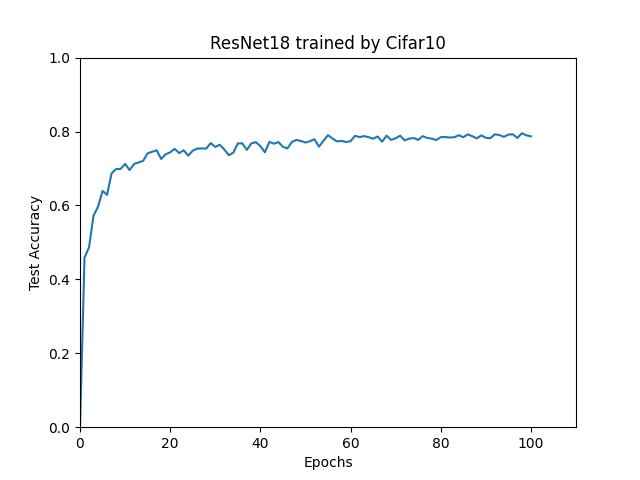
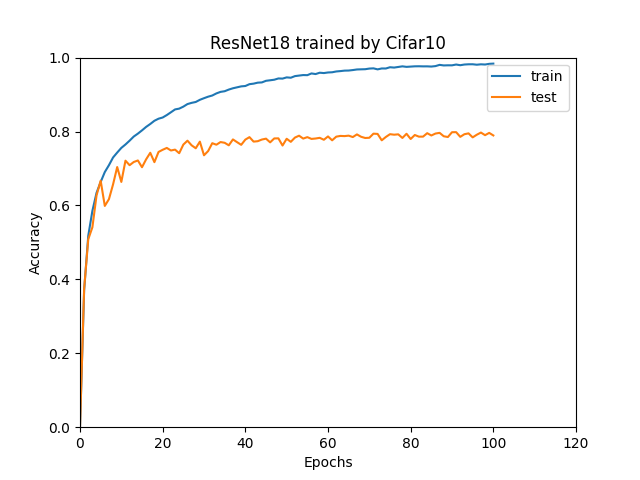
update

diff --git a/workspace/research/model/resnet18k.py b/workspace/research/model/resnet18k.py
@@ -1,0 +1,71 @@
+## ResNet18 for CIFAR
+## Based on: https://github.com/kuangliu/pytorch-cifar/blob/master/models/preact_resnet.py
+## Copied from https://gitlab.com/harvard-machine-learning/double-descent/-/blob/master/models/resnet18k.py
+
+import torch.nn as nn
+import torch.nn.functional as F
+
+class PreActBlock(nn.Module):
+    '''Pre-activation version of the BasicBlock.'''
+    expansion = 1
+
+    def __init__(self, in_planes, planes, stride=1, **kwargs):
+        super(PreActBlock, self).__init__()
+        self.bn1 = nn.BatchNorm2d(in_planes)
+        self.conv1 = nn.Conv2d(
+            in_planes, planes, kernel_size=3, stride=stride, padding=1, bias=False)
+        self.bn2 = nn.BatchNorm2d(planes)
+        self.conv2 = nn.Conv2d(planes, planes, kernel_size=3,
+                               stride=1, padding=1, bias=False)
+
+        if stride != 1 or in_planes != self.expansion*planes:
+            self.shortcut = nn.Sequential(
+                nn.Conv2d(in_planes, self.expansion*planes,
+                          kernel_size=1, stride=stride, bias=False)
+            )
+
+    def forward(self, x):
+        out = F.relu(self.bn1(x))
+        shortcut = self.shortcut(out) if hasattr(self, 'shortcut') else x
+        out = self.conv1(out)
+        out = self.conv2(F.relu(self.bn2(out)))
+        out += shortcut
+        return out
+
+class PreActResNet(nn.Module):
+    def __init__(self, block, num_blocks, num_classes=10, init_channels=64):
+        super(PreActResNet, self).__init__()
+        self.in_planes = init_channels
+        c = init_channels
+
+        self.conv1 = nn.Conv2d(3, c, kernel_size=3,
+                               stride=1, padding=1, bias=False)
+        self.layer1 = self._make_layer(block, c, num_blocks[0], stride=1)
+        self.layer2 = self._make_layer(block, 2*c, num_blocks[1], stride=2)
+        self.layer3 = self._make_layer(block, 4*c, num_blocks[2], stride=2)
+        self.layer4 = self._make_layer(block, 8*c, num_blocks[3], stride=2)
+        self.linear = nn.Linear(8*c*block.expansion, num_classes)
+
+    def _make_layer(self, block, planes, num_blocks, stride):
+        # eg: [2, 1, 1, ..., 1]. Only the first one downsamples.
+        strides = [stride] + [1]*(num_blocks-1)
+        layers = []
+        for stride in strides:
+            layers.append(block(self.in_planes, planes, stride))
+            self.in_planes = planes * block.expansion
+        return nn.Sequential(*layers)
+
+    def forward(self, x):
+        out = self.conv1(x)
+        out = self.layer1(out)
+        out = self.layer2(out)
+        out = self.layer3(out)
+        out = self.layer4(out)
+        out = F.avg_pool2d(out, 4)
+        out = out.view(out.size(0), -1)
+        out = self.linear(out)
+        return out
+
+def make_resnet18k(k=64, num_classes=10) -> PreActResNet:
+    ''' Returns a ResNet18 with width parameter k. (k=64 is standard ResNet18)'''
+    return PreActResNet(PreActBlock, [2, 2, 2, 2], num_classes=num_classes, init_channels=k)

diff --git a/workspace/research/dd.py b/workspace/research/dd.py
@@ -6,6 +6,7 @@ import torch.backends.cudnn as cudnn
 import torchvision
 import torchvision.transforms as transforms;
 from sklearn.metrics import classification_report
+import math
 
 import matplotlib.pyplot as plt
 import csv 
@@ -91,7 +92,12 @@ def sub():
     
     criterion = nn.CrossEntropyLoss()
     optimizer = optim.SGD(model.parameters(), lr=0.1)
-    count = 0
+    def func(steps):
+        if steps < 512:
+            return 1
+        else:
+            return 1.0 / math.sqrt(math.floor(steps / 512.0))
+    scheduler = optim.lr_scheduler.LambdaLR(optimizer, lr_lambda = func)
     x = range(grad_steps + 1)
     tracc = []
     teacc = []
@@ -99,6 +105,7 @@ def sub():
     teacc.append(0)
     data_save = []
     model.train()
+    count = 0
     while(grad_steps != count):
         output_list = []
         target_list = []
@@ -119,11 +126,14 @@ def sub():
             running_loss += loss.item()
 
             train_acc, train_loss = calc_score(output_list, target_list, running_loss, train_loader)
+            train_acc, train_loss = calc_score(outputs, targets, running_loss, train_loader)
             if count % 100 == 0 and count != 0:
                 stdout_temp = 'step: {:>3}/{:<3}, train acc:{:<8}, train loss: {:<8}'
                 print(stdout_temp.format(count, grad_steps, train_acc, train_loss))
+                print(optimizer.param_groups[0]['lr'])
             tracc.append(train_acc)
             count += 1
+            scheduler.step()
     
     # with open('resnet18-cifat10.csv','w') as file:
     #     writer = csv.writer(file)
